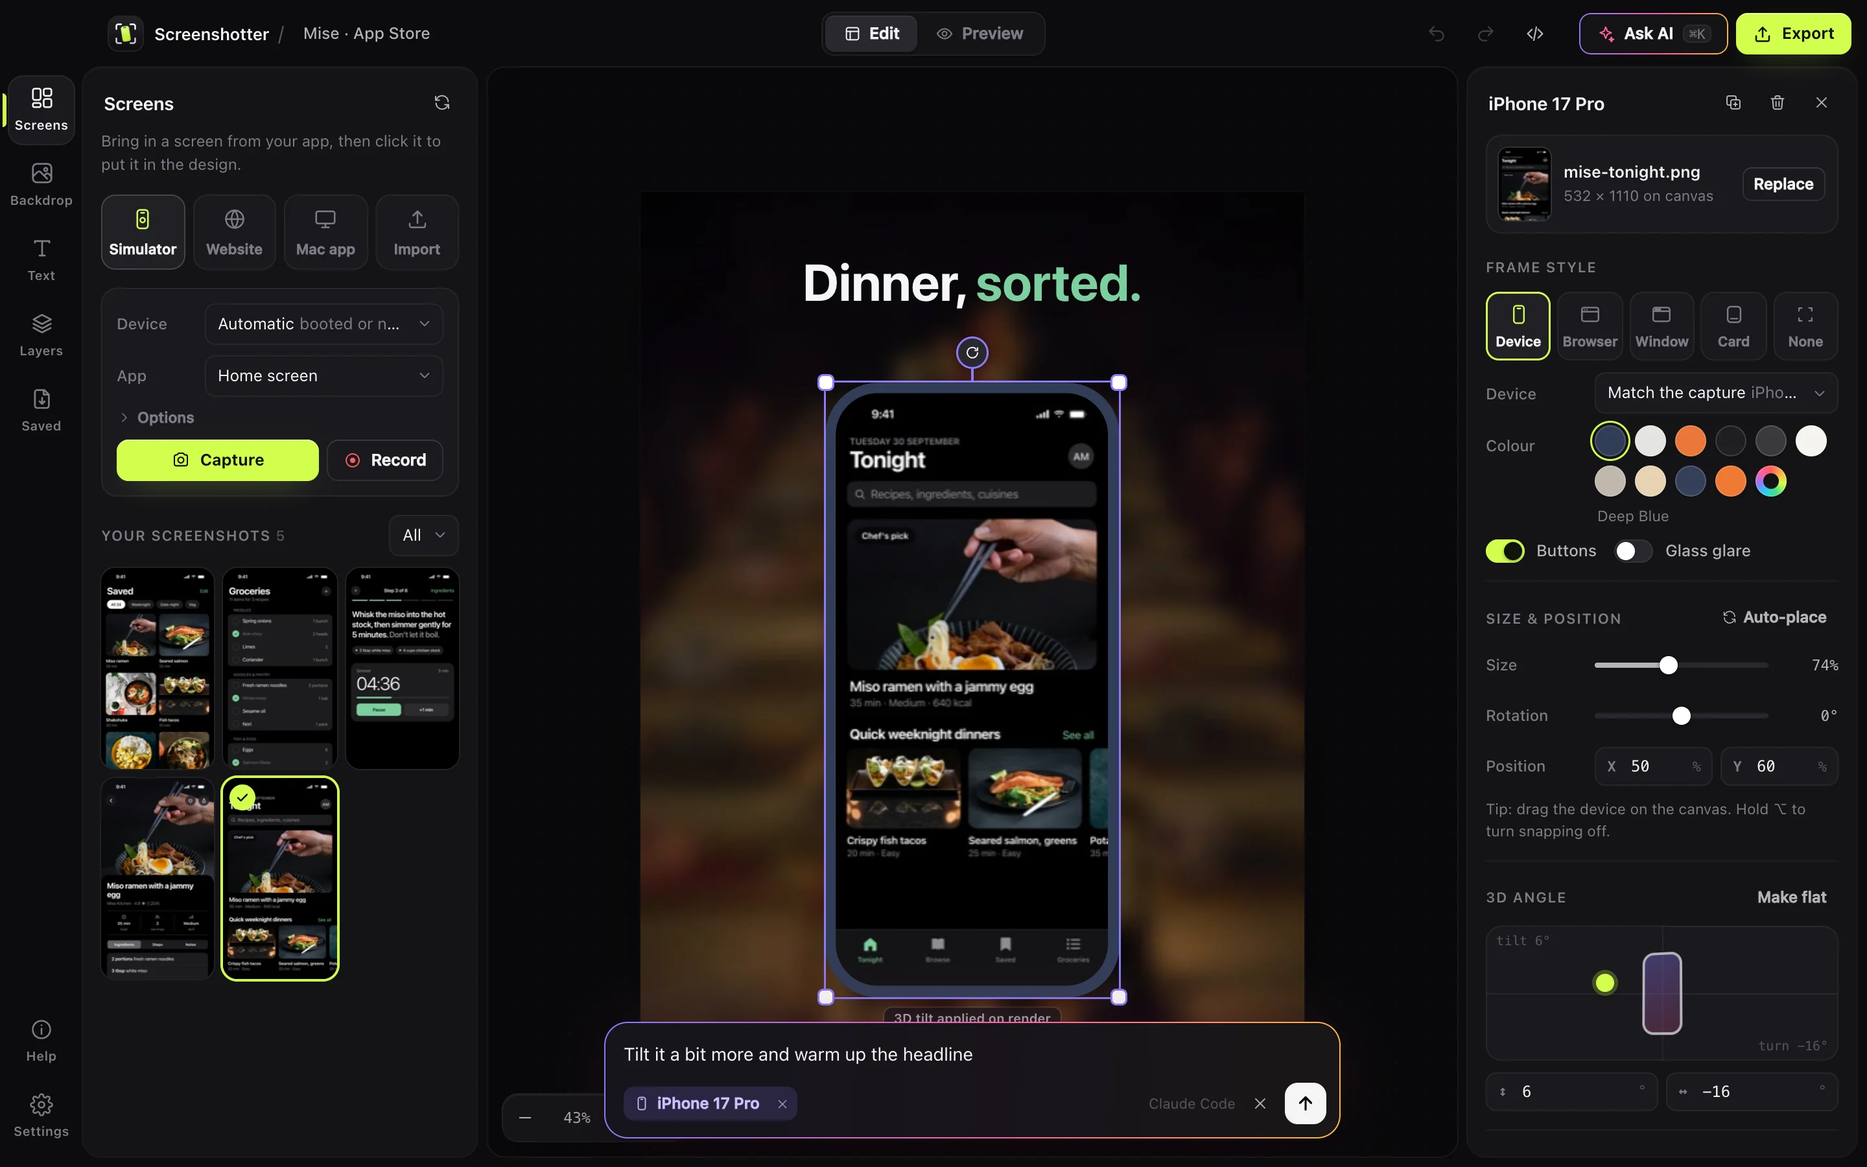
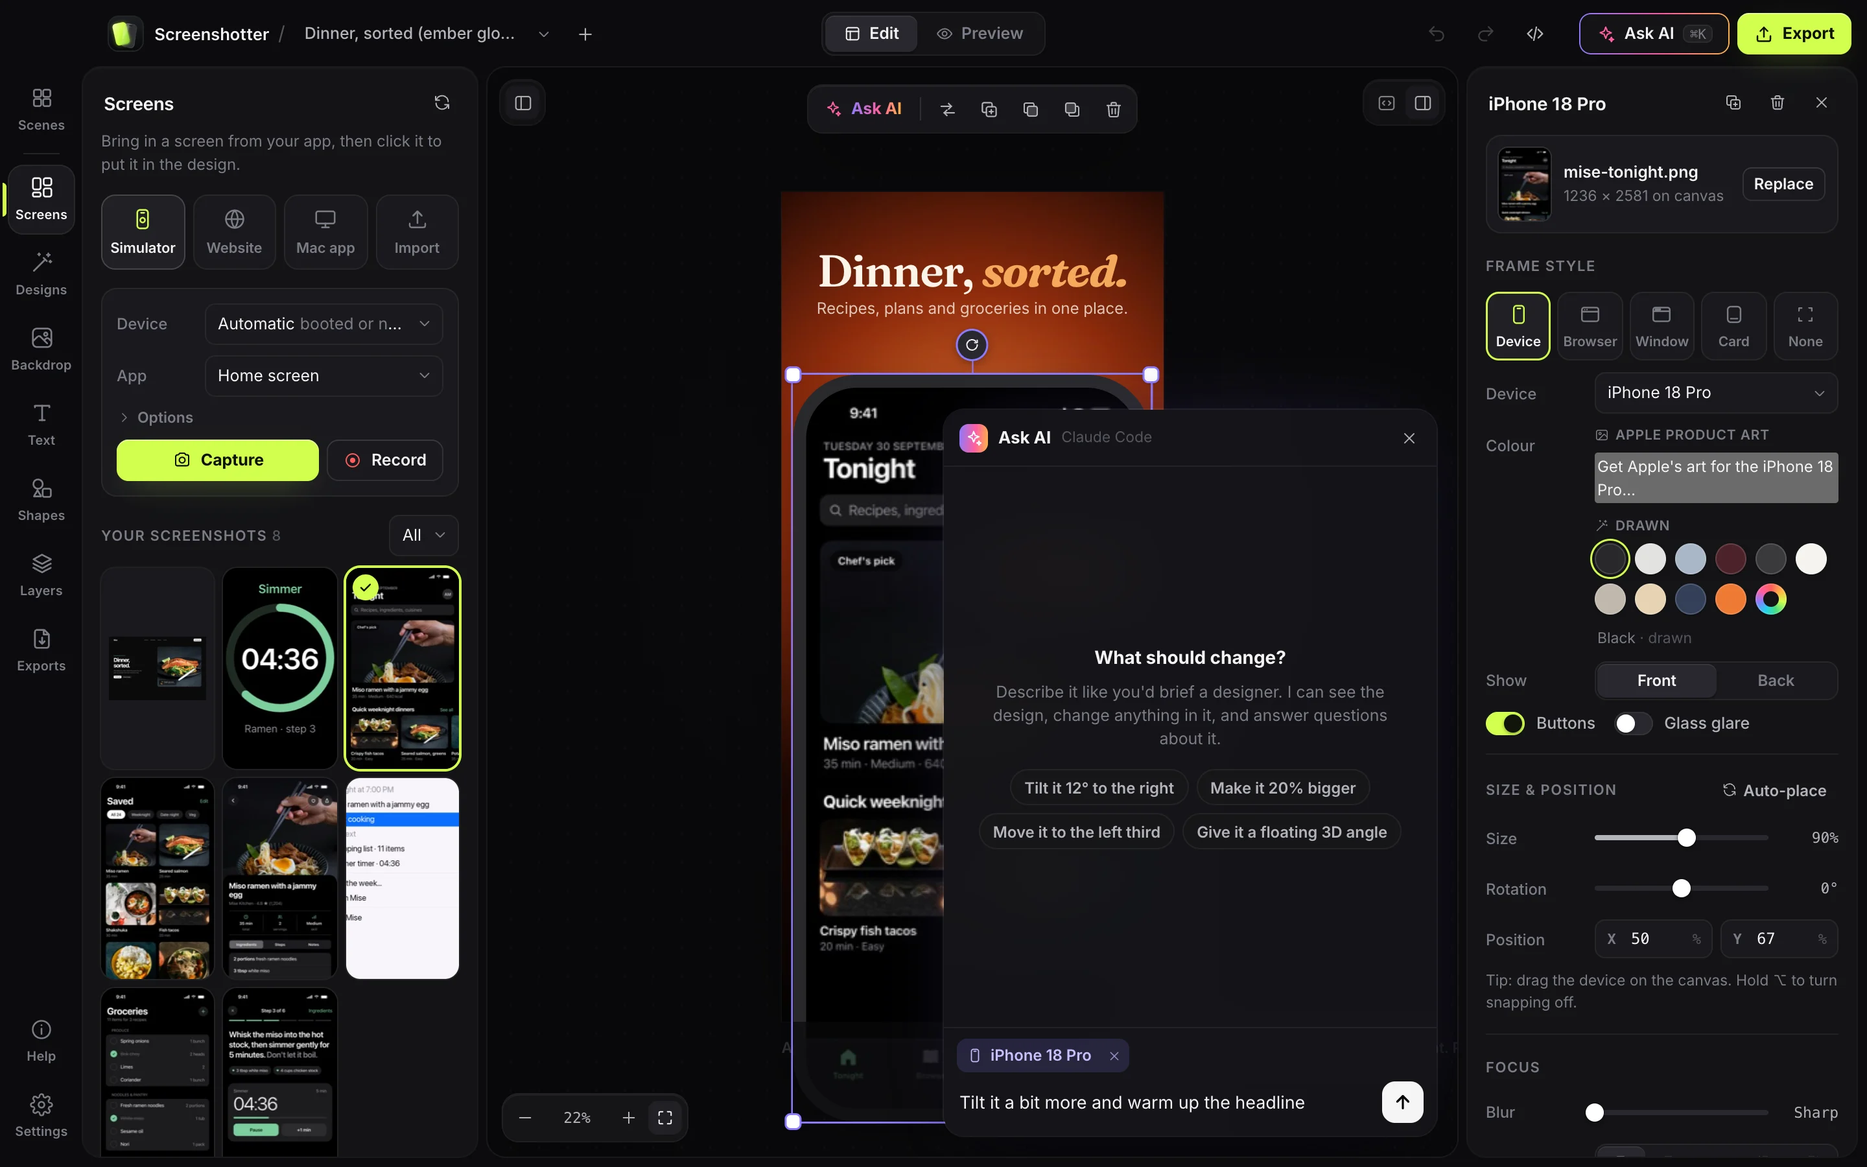
Sign with a Developer ID, and the 0.3 landing page
Signing
- The app and the disk image are signed with a Developer ID Application
  certificate when the keychain has one (hardened runtime, timestamp,
  Apple Events entitlement for Mac window capture), else ad hoc as before.
- With notarytool credentials saved under the "screenshotter" profile,
  npm run app:dmg also notarizes and staples the image.

Landing page
- 0.3 pill, two new tiles (shapes, one-click designs), Shapes and Scenes
  views in the Studio showcase, the scene tools and apply_recipe in the
  agents section, 24 tools, version 0.3.0 download.
- Studio captures retaken from a demo library, with drawn device frames.

Studio fixes found while capturing
- The Scenes page header leaves room for the window buttons in the app.
- An arrow's From and To fields no longer wrap their labels.
- A hand-drawn ring with no fill set is named "Circled".

diff --git a/site/index.html b/site/index.html
@@ -336,12 +336,13 @@ section { position: relative; }
 .app-tabs { display: flex; justify-content: center; gap: 10px; margin-top: 26px; flex-wrap: wrap; }
 .app-tabs button { position: relative; overflow: hidden; height: 40px; padding: 0 16px; border-radius: 12px; border: 0; background: var(--panel); box-shadow: inset 0 0 0 1px var(--line); color: var(--text-3); font: 600 14px var(--sans); cursor: pointer; }
 .app-tabs button[aria-selected="true"] { color: var(--text); box-shadow: inset 0 0 0 1px var(--line-3); }
+@media (max-width: 520px) { .app-tabs { gap: 6px; flex-wrap: nowrap; } .app-tabs button { height: 36px; padding: 0 10px; font-size: 12.5px; border-radius: 10px; } }
 .app-tabs button i { position: absolute; left: 0; bottom: 0; height: 2px; width: 0; background: var(--lime); }
 .app-tabs button[aria-selected="true"] i { animation: tabbar 5s linear forwards; }
 @keyframes tabbar { to { width: 100%; } }
 .pin-note { position: absolute; z-index: 3; display: flex; align-items: center; gap: 8px; font-size: 13px; padding: 7px 11px 7px 8px; border-radius: 10px; background: rgba(22, 22, 26, 0.9); -webkit-backdrop-filter: blur(10px); backdrop-filter: blur(10px); box-shadow: 0 0 0 1px var(--line-2); white-space: nowrap; transition: opacity 300ms ease, transform 400ms var(--ease); }
 .pin-note b { width: 18px; height: 18px; border-radius: 50%; display: grid; place-items: center; background: var(--lime); color: var(--lime-ink); font-size: 11px; }
-.window:not(.shown) .pin-note { opacity: 0; transform: translateY(6px); }
+.window:not(.shown) .pin-note, .window[data-current]:not([data-current="edit"]) .pin-note { opacity: 0; transform: translateY(6px); }
 .pin-note.p1 { left: 23%; top: 10%; transition-delay: 200ms; }
 .pin-note.p2 { left: 49%; top: 46%; transition-delay: 280ms; }
 .pin-note.p3 { right: 3%; top: 36%; transition-delay: 360ms; }
@@ -432,7 +433,7 @@ footer a:hover { color: var(--text); }
 <section class="hero">
   <div class="wrap">
     <div class="hero-copy">
-      <a class="pill" href="changelog.html"><b>✦ New in 0.2</b>Ask AI now designs like an art director<span aria-hidden="true">→</span></a>
+      <a class="pill" href="changelog.html"><b>✦ New in 0.3</b>Shapes, a Scenes page and one-click designs<span aria-hidden="true">→</span></a>
       <h1 aria-label="Make your app look incredible.">
         <span class="w" style="--i:0">Make</span> <span class="w" style="--i:1">your</span> <span class="w" style="--i:2">app</span> <span class="w" style="--i:3">look</span>
         <span class="line2"><span class="w grad" style="--i:4">incredible.</span></span>
@@ -518,6 +519,7 @@ footer a:hover { color: var(--text); }
       <p class="lede">Describe the change the way you'd brief a designer, or just say “make it amazing”. Claude designs from an art-direction guide, sees your app's colours and words, checks its own render before you do, and every edit is one undo away.</p>
       <ul class="checks">
         <li><svg width="18" height="18" viewBox="0 0 24 24" fill="none" stroke="currentColor" stroke-width="2.4" stroke-linecap="round" stroke-linejoin="round"><path d="M5 12.5l4.5 4.5L19 7.5"/></svg><span><b>Designs, not just edits.</b> Big confident type, colour from your app's own palette, a call-out on what the headline names.</span></li>
+        <li><svg width="18" height="18" viewBox="0 0 24 24" fill="none" stroke="currentColor" stroke-width="2.4" stroke-linecap="round" stroke-linejoin="round"><path d="M5 12.5l4.5 4.5L19 7.5"/></svg><span><b>Design it for me.</b> One click and Claude makes three different designs from your screen. Pick the one you like.</span></li>
         <li><svg width="18" height="18" viewBox="0 0 24 24" fill="none" stroke="currentColor" stroke-width="2.4" stroke-linecap="round" stroke-linejoin="round"><path d="M5 12.5l4.5 4.5L19 7.5"/></svg><span><b>Checks its own work.</b> It looks at the render and fixes what's off before you see it.</span></li>
         <li><svg width="18" height="18" viewBox="0 0 24 24" fill="none" stroke="currentColor" stroke-width="2.4" stroke-linecap="round" stroke-linejoin="round"><path d="M5 12.5l4.5 4.5L19 7.5"/></svg><span><b>Remembers your taste.</b> Say “always Space Black” once; your house style carries into every design.</span></li>
         <li><svg width="18" height="18" viewBox="0 0 24 24" fill="none" stroke="currentColor" stroke-width="2.4" stroke-linecap="round" stroke-linejoin="round"><path d="M5 12.5l4.5 4.5L19 7.5"/></svg><span><b>No setup.</b> Uses your Claude Code sign-in, or an API key if you prefer.</span></li>
@@ -557,7 +559,7 @@ footer a:hover { color: var(--text); }
             <span class="badge-mcp">MCP SERVER</span>
             <h2>Built for your <span class="ital grad">agents.</span></h2>
           </div>
-          <p class="lede">Screenshotter is also an MCP server. Add it to Claude Code, Codex or OpenCode, and your agent can build your app, capture it, and hand you finished store images. It designs from the same art-direction guide as Ask AI, then zooms into details and compares variants before it moves on.</p>
+          <p class="lede">Screenshotter is also an MCP server. Add it to Claude Code, Codex or OpenCode, and your agent can build your app, capture it, and hand you finished store images. It designs from the same art-direction guide as Ask AI, then zooms into details and compares variants before it moves on. It can open the scenes you saved in the Studio and save its own there, where you keep editing by hand.</p>
         </div>
 
         <div class="mcp-grid">
@@ -619,7 +621,7 @@ tool_timeout_sec = <span class="s">600</span></pre>
         </div>
 
         <div class="stats">
-          <div class="stat"><b>20</b><span>MCP tools</span></div>
+          <div class="stat"><b>24</b><span>MCP tools</span></div>
           <div class="stat"><b>30</b><span>device frames</span></div>
           <div class="stat"><b>49</b><span>built-in looks</span></div>
           <div class="stat"><b>7</b><span>export formats</span></div>
@@ -630,13 +632,15 @@ tool_timeout_sec = <span class="s">600</span></pre>
           <div class="tool"><code>record_simulator</code><p>Screen recordings, with deep links played on a timeline.</p></div>
           <div class="tool"><code>capture_web</code><p>Any URL, in real Mobile Safari or desktop Chrome.</p></div>
           <div class="tool"><code>capture_mac</code><p>A Mac app window by name, or the whole screen.</p></div>
-          <div class="tool"><code>create_mockup</code><p>One finished image: frames, backdrop, effects, call-outs, headline.</p></div>
+          <div class="tool"><code>create_mockup</code><p>One finished image: frames, backdrop, effects, call-outs, shapes, headline.</p></div>
+          <div class="tool"><code>apply_recipe</code><p>A complete, proven design built from your screens and their colours.</p></div>
           <div class="tool"><code>create_mockup_set</code><p>A matching series, like a full App Store set.</p></div>
           <div class="tool"><code>create_video</code><p>The same scene in motion, with zooms that follow the action and a cursor that clicks.</p></div>
           <div class="tool"><code>layout_mockup</code><p>Where everything lands, without rendering, so agents can plan.</p></div>
           <div class="tool"><code>find_text</code><p>On-device text recognition, to aim call-outs at words.</p></div>
           <div class="tool"><code>record_web</code> · <code>record_mac</code><p>Rehearsed click-throughs of a page, with a cursor track; Mac app recordings.</p></div>
           <div class="tool"><code>crop_image</code> · <code>create_grid</code><p>Zoom into details and compare variants side by side, the way a designer checks work.</p></div>
+          <div class="tool"><code>list_scenes</code> · <code>get_scene</code> · <code>save_scene</code><p>Open the designs saved in the Studio, and save new ones there, still editable by hand.</p></div>
           <div class="tool"><code>design_guide</code><p>The art-direction guide: composition, copy, type, colour, call-outs.</p></div>
           <div class="tool"><code>get_house_style</code> · <code>remember_style</code><p>What you like, remembered between sessions and shared with the app.</p></div>
           <div class="tool"><code>simulator_control</code><p>Boot, launch, open links, set appearance and permissions.</p></div>
@@ -708,6 +712,18 @@ tool_timeout_sec = <span class="s">600</span></pre>
         </div>
       </article>
       <article class="tile span-2 reveal">
+        <h3>Arrows, circles and numbers</h3>
+        <p>Drag a shape onto the design and drop it where you want it. Clean or hand-drawn, any fill and stroke, and your agent can place them too.</p>
+        <div class="chips"><span>Arrow</span><span>Circle</span><span>Box</span><span>Number</span><span>Star</span></div>
+        <div class="cycle"><img class="on" style="object-position:center 47%" src="assets/shapes.webp" alt="A hand-drawn ring and arrow pointing at Limes in a grocery list, with numbered steps beside three rows" width="1240" height="1550" loading="lazy"></div>
+      </article>
+      <article class="tile span-4 reveal">
+        <h3>A finished design in one click</h3>
+        <p>Twelve proven designs, each built from your screen and its own colours. Or ask Claude for three and pick one.</p>
+        <div class="chips"><span>3D tilt</span><span>In the gallery</span><span>Bold hero</span><span>Risograph</span><span>Art director</span><span>+ 7 more</span></div>
+        <div class="cycle strip" style="aspect-ratio:2000/687"><img class="on" style="object-position:center" src="assets/recipes.webp" alt="One screenshot as five finished designs: tilted in 3D, on a painting, a bold hero, a risograph print and an editorial layout" width="2000" height="687" loading="lazy"></div>
+      </article>
+      <article class="tile span-2 reveal">
         <h3>Motion, not just stills</h3>
         <p>Drift, float or push in. Play a real recording inside the frame, with zooms that follow the action and a cursor that clicks.</p>
         <div class="chips"><span>MP4</span><span>MOV</span><span>WebM</span><span>GIF</span></div>
@@ -739,7 +755,7 @@ tool_timeout_sec = <span class="s">600</span></pre>
       </article>
       <article class="tile span-3 reveal">
         <h3>A canvas that stays out of your way</h3>
-        <p>Drag, resize and rotate with snapping guides. Double-click any text to retype it.</p>
+        <p>Drag, resize and rotate with snapping guides. Double-click any text to retype it. Focus mode hides the panels when you want the whole canvas.</p>
         <div class="shot-crop" role="img" aria-label="The Studio canvas with a selected iPhone"></div>
       </article>
       <article class="tile span-4 reveal">
@@ -773,7 +789,7 @@ tool_timeout_sec = <span class="s">600</span></pre>
     <div class="sec-head center reveal">
       <span class="eyebrow"><i></i>The Studio</span>
       <h2 class="h2">A studio you'll <span class="ital grad">enjoy using.</span></h2>
-      <p class="lede">A small Mac app, with its own look. Screens on the left, your design in the middle, every setting on the right.</p>
+      <p class="lede">A small Mac app, with its own look. Screens on the left, your design in the middle, every setting on the right, and every design you've made one keystroke away.</p>
     </div>
     <div class="window-wrap reveal-scale" data-window>
       <div class="window">
@@ -782,6 +798,8 @@ tool_timeout_sec = <span class="s">600</span></pre>
           <img class="on" data-view="edit" src="assets/ui-editor.webp" alt="The Studio: your screens on the left, the canvas in the middle, device settings on the right" width="2880" height="1800" loading="lazy">
           <img data-view="ai" src="assets/ui-ai.webp" alt="The Studio with the Ask AI box open" width="2880" height="1800" loading="lazy">
           <img data-view="preview" src="assets/ui-preview.webp" alt="The Studio showing a rendered preview" width="2880" height="1800" loading="lazy">
+          <img data-view="shapes" src="assets/ui-shapes.webp" alt="The Studio's Shapes panel, with a hand-drawn arrow selected on the canvas and its settings on the right" width="2880" height="1800" loading="lazy">
+          <img data-view="scenes" src="assets/ui-scenes.webp" alt="The Scenes page: every saved design as a large preview, grouped by when it was last edited" width="2880" height="1800" loading="lazy">
         </div>
         <span class="pin-note p1"><b>1</b>Capture from Simulator, web or Mac</span>
         <span class="pin-note p2"><b>2</b>Drag, resize, rotate</span>
@@ -792,6 +810,8 @@ tool_timeout_sec = <span class="s">600</span></pre>
         <button role="tab" aria-selected="true" data-show="edit">Edit<i></i></button>
         <button role="tab" aria-selected="false" data-show="ai">Ask AI<i></i></button>
         <button role="tab" aria-selected="false" data-show="preview">Preview<i></i></button>
+        <button role="tab" aria-selected="false" data-show="shapes">Shapes<i></i></button>
+        <button role="tab" aria-selected="false" data-show="scenes">Scenes<i></i></button>
       </div>
     </div>
   </div>
@@ -810,7 +830,7 @@ tool_timeout_sec = <span class="s">600</span></pre>
         </a>
         <a class="btn ghost lg" href="#mcp">Set up the MCP</a>
       </div>
-      <p class="dl-meta">Version 0.2.0 · <a href="changelog.html">What's new</a> · 27 MB · macOS 14 or later · Apple silicon · Needs Node.js 20+</p>
+      <p class="dl-meta">Version 0.3.0 · <a href="changelog.html">What's new</a> · 30 MB · macOS 14 or later · Apple silicon · Needs Node.js 20+</p>
     </div>
     <div class="how">
       <ol>
@@ -1020,7 +1040,7 @@ npm install &amp;&amp; npm run app:build &amp;&amp; open build/Screenshotter.app
   const views = $$("[data-view]");
   const vtabs = $$(".app-tabs [data-show]");
   let manual = false, vi = 0;
-  const showView = (name) => { views.forEach((v) => v.classList.toggle("on", v.dataset.view === name)); vtabs.forEach((t) => { t.setAttribute("aria-selected", String(t.dataset.show === name)); const bar = t.querySelector("i"); bar.style.animation = "none"; bar.offsetWidth; bar.style.animation = ""; }); };
+  const showView = (name) => { views.forEach((v) => v.classList.toggle("on", v.dataset.view === name)); const win = views[0]?.closest(".window"); if (win) win.dataset.current = name; vtabs.forEach((t) => { t.setAttribute("aria-selected", String(t.dataset.show === name)); const bar = t.querySelector("i"); bar.style.animation = "none"; bar.offsetWidth; bar.style.animation = ""; }); };
   vtabs.forEach((t, i) => t.addEventListener("click", () => { manual = true; vi = i; showView(t.dataset.show); }));
   if (!reduced) setInterval(() => { if (manual || !isVisible(winWrap)) return; vi = (vi + 1) % vtabs.length; showView(vtabs[vi].dataset.show); }, 5000);
 })();

diff --git a/src/studio/ui/inspector.js b/src/studio/ui/inspector.js
@@ -532,12 +532,14 @@ function ShapeInspector({ id }) {
       <//>
       <${Section} title="Size & position">
         ${line
-          ? html`<div class="grid2">
-                <${Num} label="From X" value=${g.from.x} ...${pct} onChange=${(v) => v !== undefined && place((x) => (x.from = { ...g.from, x: r4(v) }), "fx")} />
+          ? html`<div class="row"><label>From</label><div class="grid2">
+                <${Num} label="X" value=${g.from.x} ...${pct} onChange=${(v) => v !== undefined && place((x) => (x.from = { ...g.from, x: r4(v) }), "fx")} />
                 <${Num} label="Y" value=${g.from.y} ...${pct} onChange=${(v) => v !== undefined && place((x) => (x.from = { ...g.from, y: r4(v) }), "fy")} />
-                <${Num} label="To X" value=${g.to.x} ...${pct} onChange=${(v) => v !== undefined && place((x) => (x.to = { ...g.to, x: r4(v) }), "tx")} />
+              </div></div>
+              <div class="row"><label>To</label><div class="grid2">
+                <${Num} label="X" value=${g.to.x} ...${pct} onChange=${(v) => v !== undefined && place((x) => (x.to = { ...g.to, x: r4(v) }), "tx")} />
                 <${Num} label="Y" value=${g.to.y} ...${pct} onChange=${(v) => v !== undefined && place((x) => (x.to = { ...g.to, y: r4(v) }), "ty")} />
-              </div>`
+              </div></div>`
           : html`<div class="grid2">
                 <${Num} label="X" value=${g.x} ...${pct} onChange=${(v) => v !== undefined && place((x) => (x.x = r4(v)), "x")} />
                 <${Num} label="Y" value=${g.y} ...${pct} onChange=${(v) => v !== undefined && place((x) => (x.y = r4(v)), "y")} />

diff --git a/src/studio/ui/store.js b/src/studio/ui/store.js
@@ -398,7 +398,7 @@ export function entityLabel(id, scene = S.scene, layout = S.layout) {
     const e = layout?.entities.find((x) => x.id === id)?.shape;
     if (!sh) return "Shape";
     if (sh.type === "badge") return `Number ${e?.label ?? sh.label ?? ""}`.trim();
-    if (sh.type === "ellipse") return sh.sketch && sh.fill !== undefined && sh.fill === "none" ? "Circled" : (e?.aspect ?? sh.aspect ?? 1.5) === 1 ? "Circle" : "Ellipse";
+    if (sh.type === "ellipse") return (e?.sketch ?? sh.sketch) && (e?.fill ?? sh.fill ?? "none") === "none" ? "Circled" : (e?.aspect ?? sh.aspect ?? 1.5) === 1 ? "Circle" : "Ellipse";
     if (sh.type === "rect") return (e?.fill ?? sh.fill ?? "none") === "none" ? "Box" : (e?.radius ?? sh.radius) >= 0.5 ? "Pill" : "Rectangle";
     return { arrow: "Arrow", line: "Line", triangle: "Triangle", star: "Star" }[sh.type] ?? "Shape";
   }

diff --git a/src/studio/ui/styles.css b/src/studio/ui/styles.css
@@ -83,7 +83,7 @@ svg { display: block; flex: none; }
 .app.right-closed { --right: 0px; }
 
 .topbar { grid-column: 1 / -1; display: flex; align-items: center; gap: 10px; padding: 0 12px 0 var(--traffic, 14px); position: relative; z-index: 30; }
-.native .topbar { --traffic: 84px; }
+.native .topbar, .native .sp-bar { --traffic: 84px; }
 .brand { display: flex; align-items: center; gap: 9px; min-width: 0; }
 .brand-mark { width: 26px; height: 26px; border-radius: 7.5px; background: url(/ui/icon.svg) center / cover; box-shadow: 0 0 0 1px var(--line-2); flex: none; }
 .brand-name { font: 600 13px var(--display); letter-spacing: -0.01em; }

diff --git a/README.md b/README.md
@@ -342,7 +342,7 @@ npm run site          # preview at http://127.0.0.1:4700
 
 To publish, upload the `site/` folder to any static host (Vercel, Netlify, GitHub Pages, S3). It is set up for Vercel as the `screenshotter` project: `cd site && vercel deploy --prod` (`site/.vercelignore` leaves out `demo/`). The **Download** button links to `downloads/Screenshotter.dmg` next to the page. If you host the disk image elsewhere, such as a GitHub release, change that link in `site/index.html`.
 
-The app is signed ad hoc, so macOS asks people to allow it (System Settings › Privacy & Security › **Open Anyway**) the first time they open it; the page says so. To remove that step, sign the app with an Apple Developer ID and notarize the disk image before you publish it.
+**Signing.** `npm run app:build` and `npm run app:dmg` sign with your **Developer ID Application** certificate when one is in your keychain (Xcode › Settings › Accounts › Manage Certificates), with the hardened runtime, and sign the disk image too. Without one, the build is signed ad hoc. `SCREENSHOTTER_SIGN_IDENTITY` picks a different identity (part of its name), or `-` for ad hoc. A signed app that isn't notarized still makes macOS ask people to allow it (System Settings › Privacy & Security › **Open Anyway**) the first time; the page says so. To remove that step, save notarization credentials once with `xcrun notarytool store-credentials screenshotter --apple-id <your Apple ID> --team-id <TEAMID>` (it asks for an app-specific password from account.apple.com); from then on `npm run app:dmg` notarizes and staples the image. `SCREENSHOTTER_NOTARY_PROFILE` names a different profile.
 
 ## Development
 
